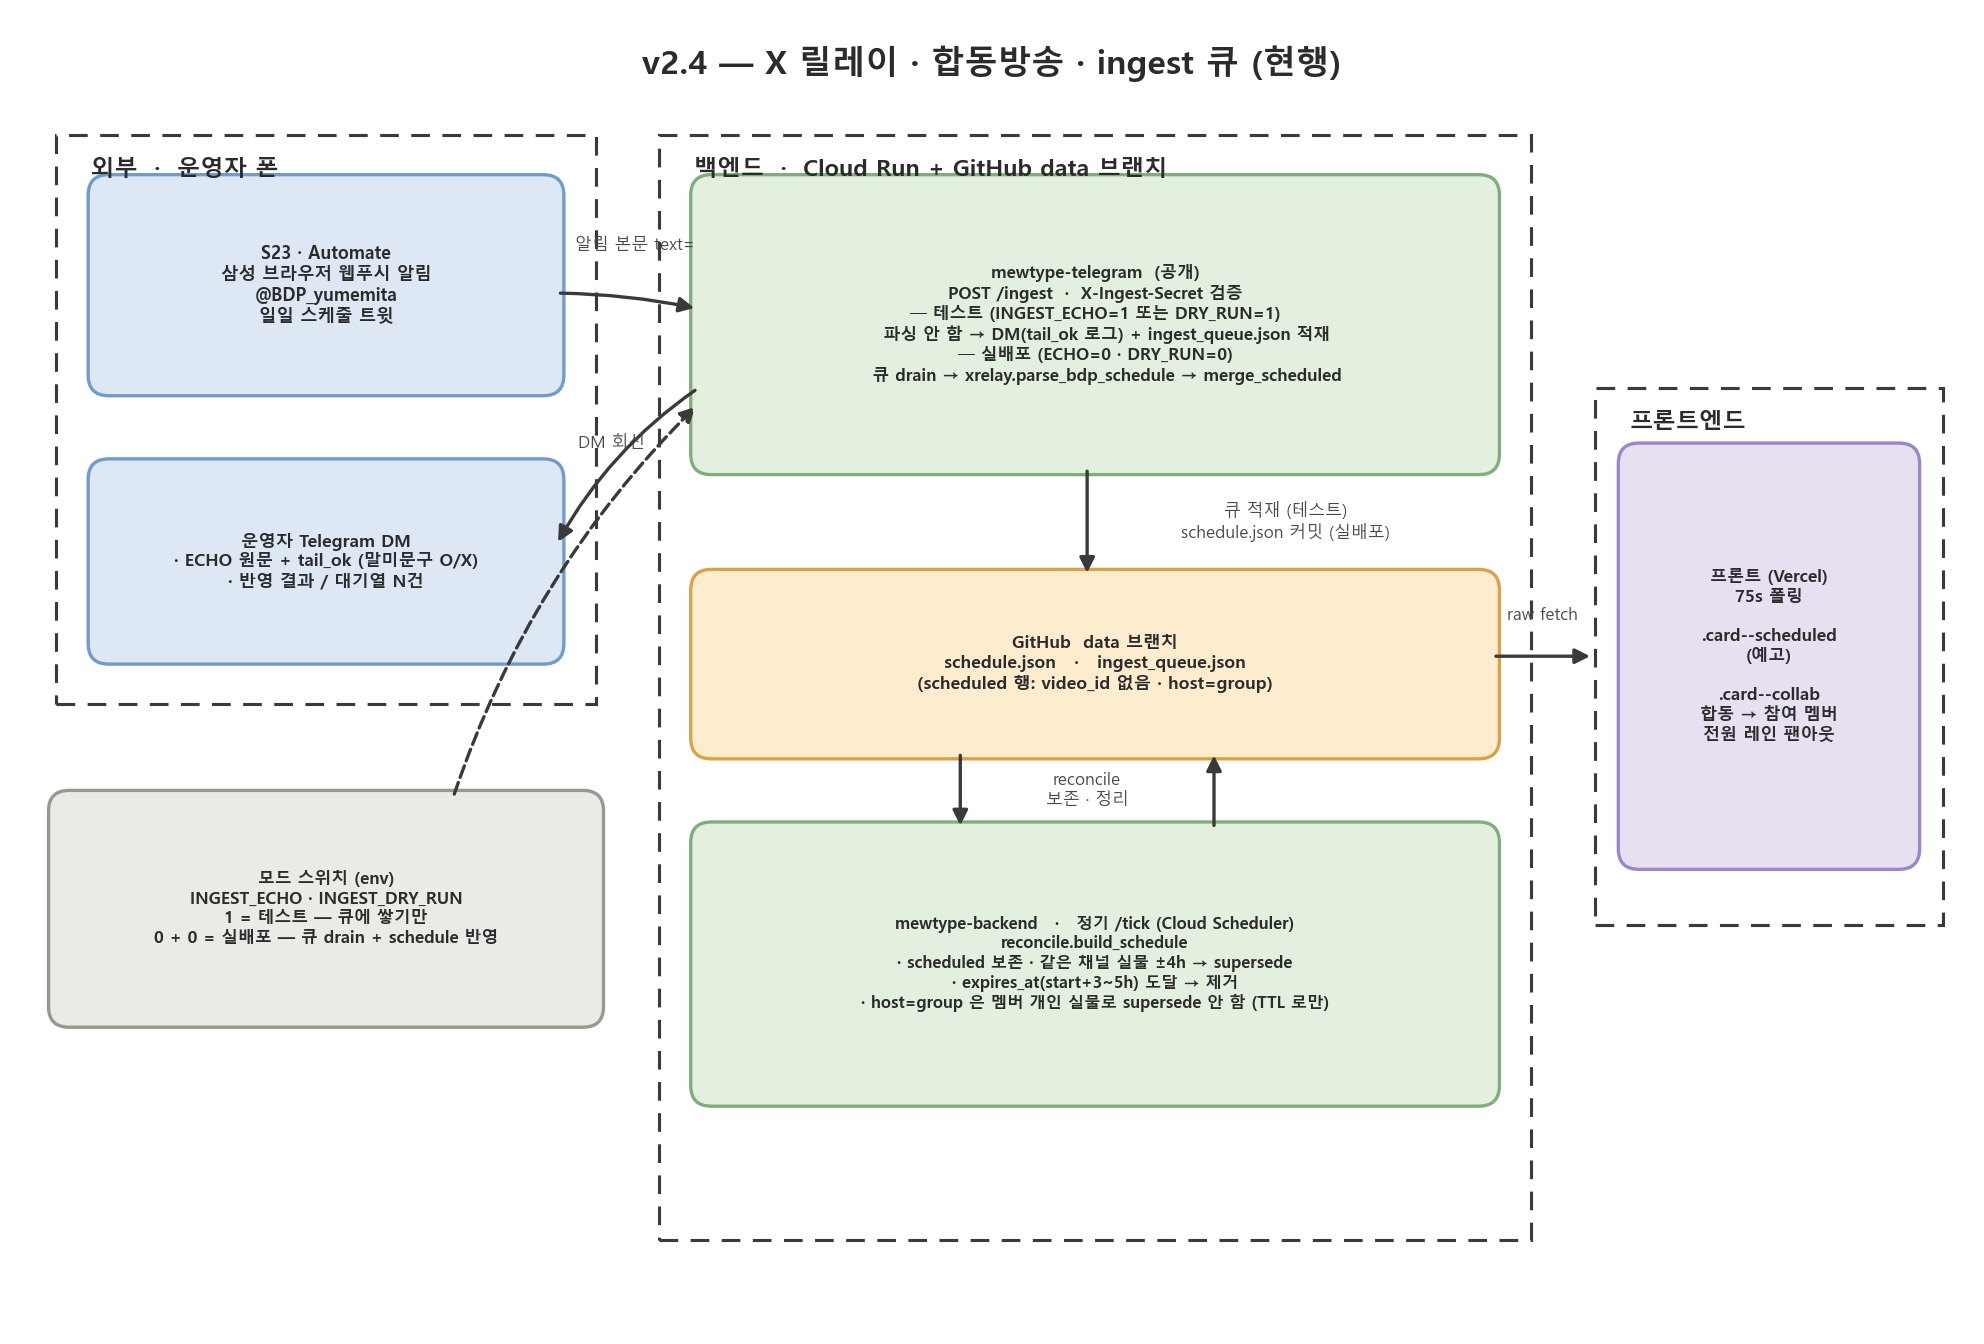
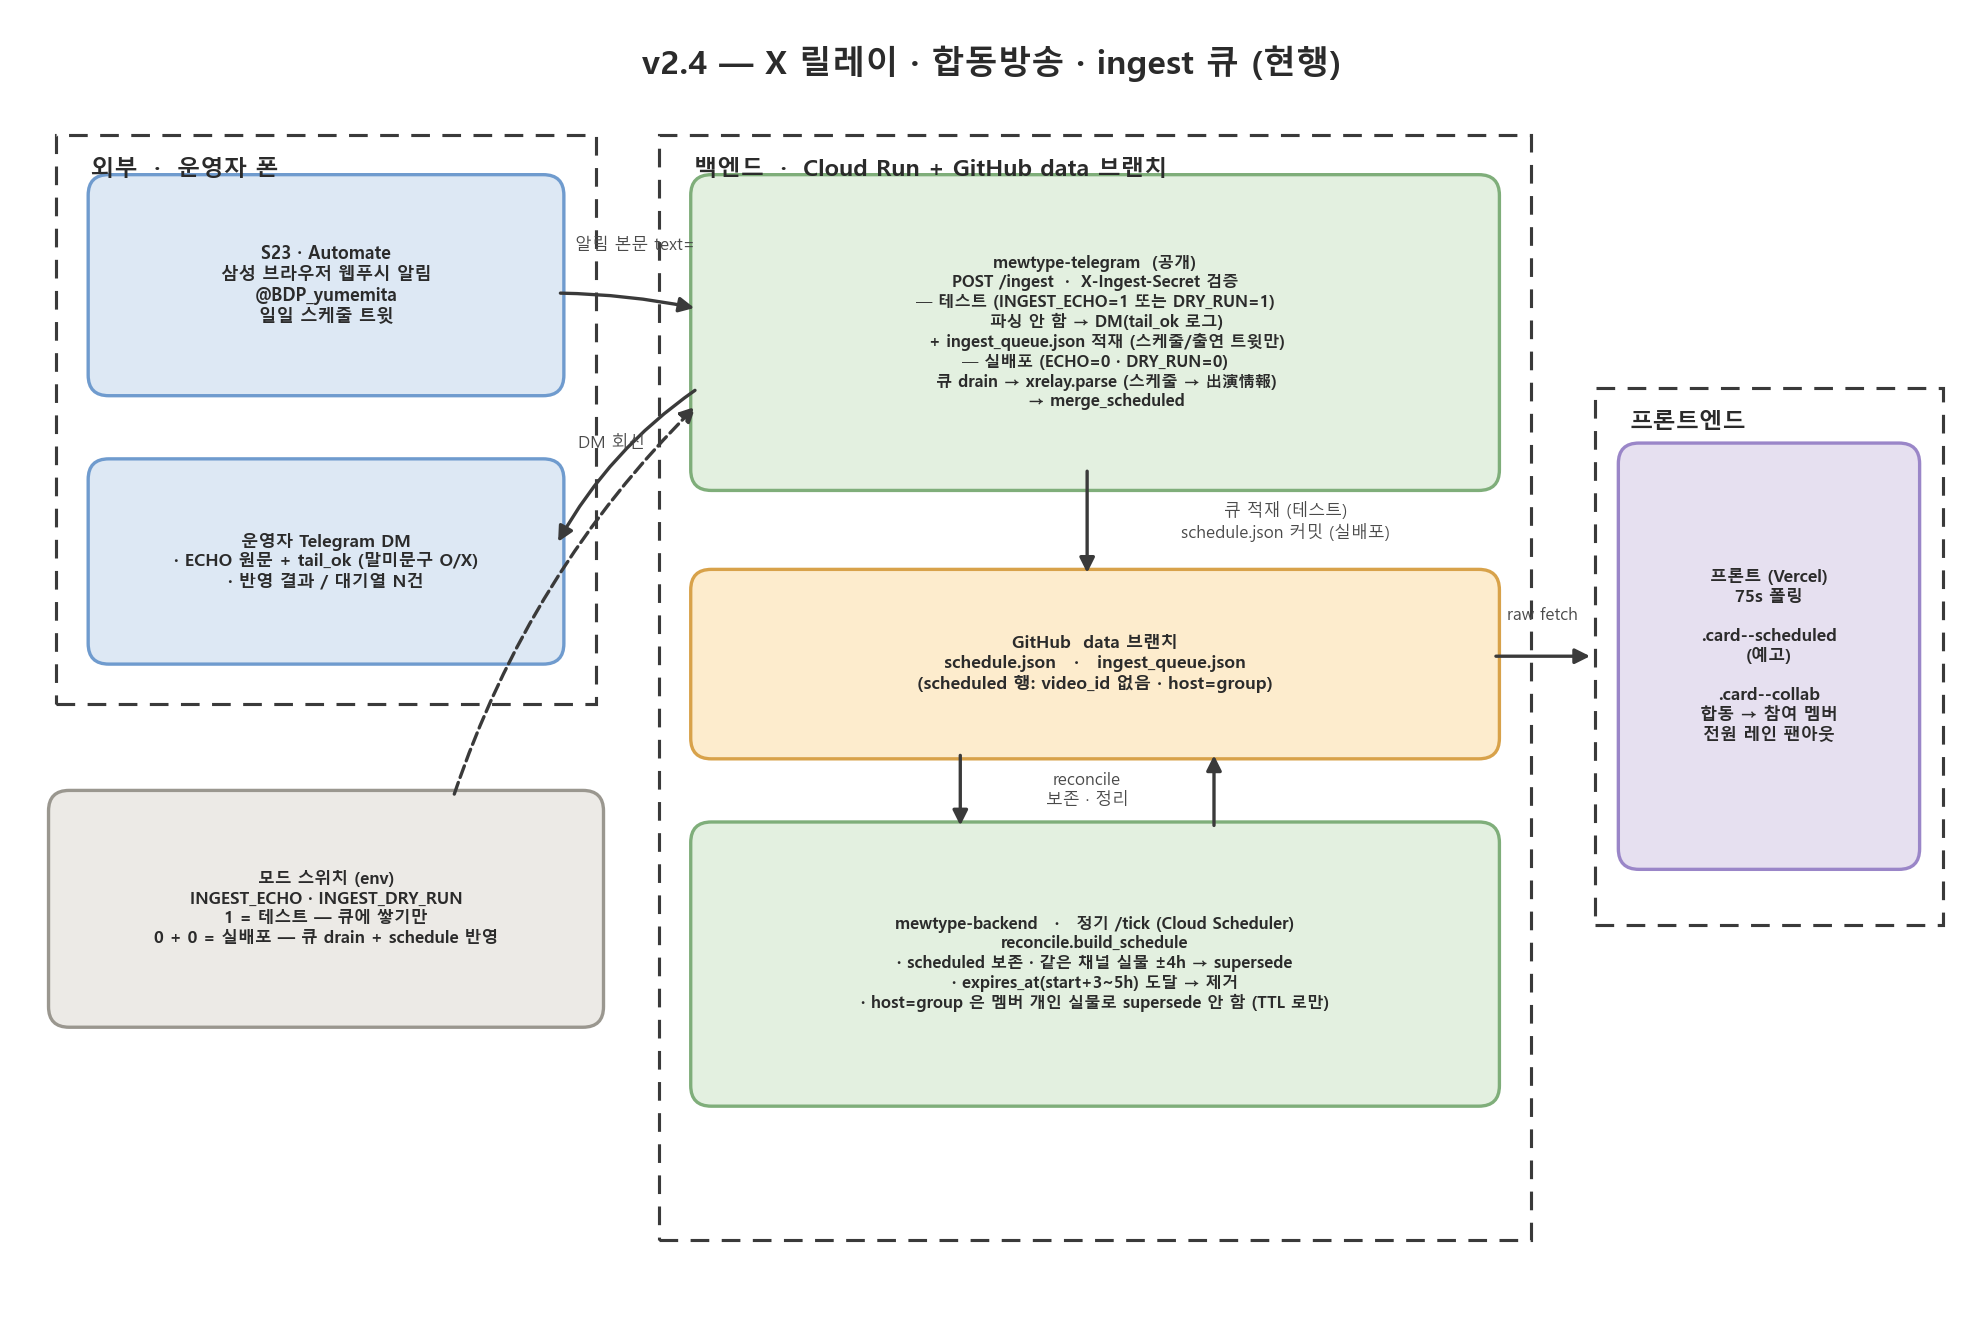
docs: v2_4_flow.png — PR #8 반영 (xrelay.parse · 스케줄/출연 큐 가드)
parse_bdp_schedule → 통합 진입점 xrelay.parse (스케줄 → 出演情報),
큐 적재는 looks_relayable(스케줄/출연 트윗만).

Claude-Session: https://claude.ai/code/session_01UVJm5pSA3yHZmj3AQWAvkC

Changed region(s): [[0.4375, 0.1875, 0.6562, 0.3125], [0.3438, 0.3438, 0.7812, 0.375]]

diff --git a/docs/plan/gen_v2_4.py b/docs/plan/gen_v2_4.py
@@ -65,13 +65,15 @@ box(5.5, 43, 29, 12,
 
 # ── 그룹 2: 백엔드 (Cloud Run + GitHub) ──────────────────
 group(41, 6, 55, 70, "백엔드  ·  Cloud Run + GitHub data 브랜치")
-box(43.5, 55, 50, 18,
+box(43.5, 54, 50, 19,
     "mewtype-telegram  (공개)\nPOST /ingest  ·  X-Ingest-Secret 검증\n"
     "─ 테스트 (INGEST_ECHO=1 또는 DRY_RUN=1)\n"
-    "    파싱 안 함 → DM(tail_ok 로그) + ingest_queue.json 적재\n"
+    "    파싱 안 함 → DM(tail_ok 로그)\n"
+    "    + ingest_queue.json 적재 (스케줄/출연 트윗만)\n"
     "─ 실배포 (ECHO=0 · DRY_RUN=0)\n"
-    "    큐 drain → xrelay.parse_bdp_schedule → merge_scheduled",
-    GREEN, GREEN_E, fs=7.6)
+    "    큐 drain → xrelay.parse (스케줄 → 出演情報)\n"
+    "    → merge_scheduled",
+    GREEN, GREEN_E, fs=7.4)
 box(43.5, 37, 50, 11,
     "GitHub  data 브랜치\nschedule.json   ·   ingest_queue.json\n"
     "(scheduled 행: video_id 없음 · host=group)",
